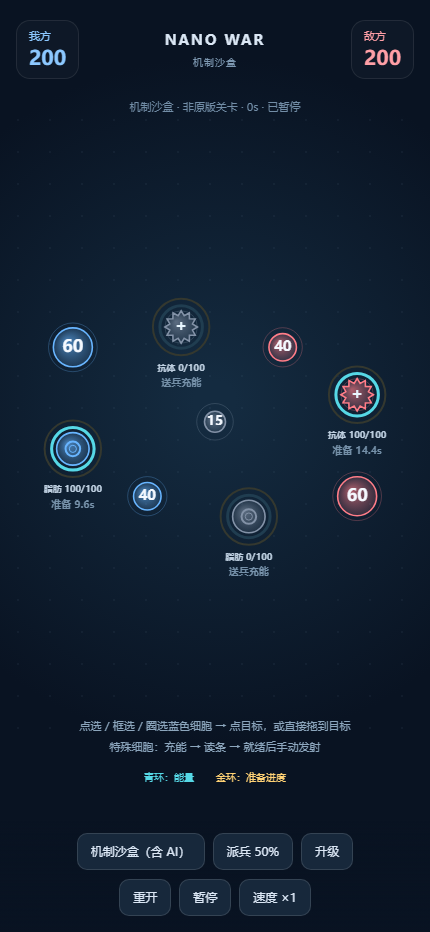
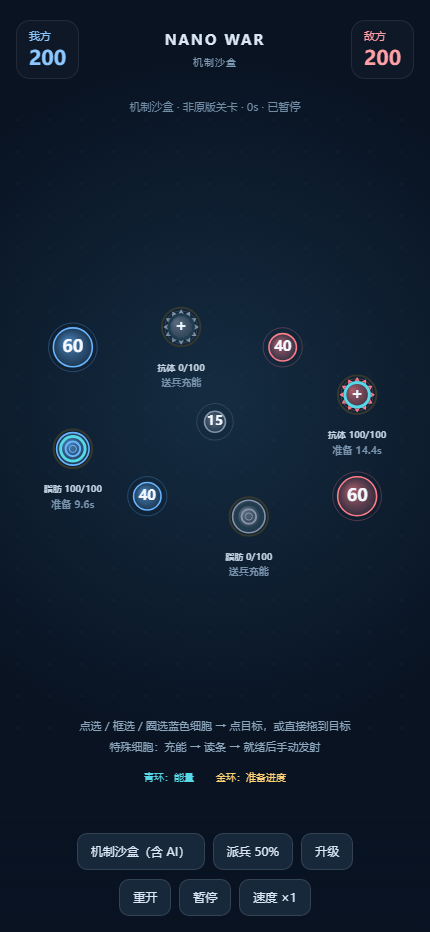
Fix campaign lifecycle stalls and add deterministic simulation sweep

diff --git a/src/core.js b/src/core.js
@@ -18,11 +18,11 @@ function createState(map,options={}){
  c.ray=c.type==='n'?Math.floor(44*c.size/100*.83):24;
  c.interval=Math.trunc(1000+2200*(100-c.size)/100)/1000;c.delay=c.interval;
  if(s.difficulty&&c.own>1&&c.type==='n')c.u=Math.trunc(c.u*(s.difficulty===1?1.5:2));
- sync(c);return c;});return s;
+ setPower(c,c.u);return c;});return s;
 }
 function sync(c){c.ray2=c.type==='n'?Math.trunc(c.ray*clamp(.5+c.u/200,.5,1.1)*.95):15;if(c.type!=='n'){if(c.u<c.powerMax){c.timer=0;c.loading=false;c.ready=false;}else if(!c.ready&&!c.loading){c.loading=true;c.timer=0;}}}
-function setPower(c,p){c.u=Math.max(0,Math.trunc(p));sync(c);}
-function switchSide(c,side,s){if(c.own!==side){if(c.type==='n'&&c.own===0)c.u+=Math.trunc(25*c.size/100);if(c.type!=='n'){c.ready=false;sync(c);}if(side!==c.fat)c.fat=-1;c.own=side;c.upgrades=Object.assign({speed:0,time:0,shield:0,special:0},s&&s.upgrades[side]);c.powerMax=c.type==='n'?100:100*upgrade(c,'special');}sync(c);}
+function setPower(c,p){c.u=Number.isFinite(p)?Math.max(0,Math.trunc(p)):0;sync(c);}
+function switchSide(c,side,s){if(c.own!==side){if(c.type==='n'&&c.own===0)c.u+=Math.trunc(25*c.size/100);if(c.type!=='n'){c.ready=false;c.loading=false;c.timer=0;}if(side!==c.fat)c.fat=-1;c.own=side;c.upgrades=Object.assign({speed:0,time:0,shield:0,special:0},s&&s.upgrades[side]);c.powerMax=c.type==='n'?100:100*upgrade(c,'special');}sync(c);}
 function selectable(c,side){return !!c&&c.own===side&&(c.type==='n'||c.ready);}
 function canSend(c,side){return selectable(c,side)&&(c.type!=='n'||((c.fat===-1||c.fat===side)&&c.u>=2));}
 // Cell.as:373-410. Zero becomes neutral first; next hostile mini captures with one energy.
@@ -36,7 +36,7 @@ function unitPower(u,p){u.power=p;if(u.kind==='w'){u.scale=clamp(.25+.75*p/100,.
 // FatUnit.as:13-19; AntibodyUnit.as:13-18; SpecialUnit.as:13: ray18.
 function launch(s,c,target,kind,power=0){const u={id:s.nextUnit++,kind,side:c.own,source:c.id,target:target.id,x:c.x,y:c.y,power:0,wanted:power,moving:kind!=='w',v:0,acc:true,angle:Math.atan2(target.y-c.y,target.x-c.x),bx:0,by:0,age:0,ray:18,vmax:kind==='f'?3:3.3,vmin:kind==='w'?.6:.8,acceleration:.5,slow:kind==='a'?.96:.94};
  if(kind==='w'){unitPower(u,0);u.x+=Math.cos(u.angle)*(c.ray2*.8-u.ray);u.y+=Math.sin(u.angle)*(c.ray2*.8-u.ray);}s.units.push(u);return u;}
-function sendFleet(s,ids,targetId,side,percent=50){const target=s.cells[targetId];if(!target||s.over||side<1||side>4)return 0;let count=0;for(const id of new Set(ids)){const c=s.cells[id];if(!canSend(c,side)||c===target)continue;if(c.type!=='n'){if(c.type==='f'&&target.type!=='n')continue;launch(s,c,target,c.type);c.ready=false;setPower(c,c.u-c.powerMax);count++;}else{let n=Math.trunc(c.u*clamp(percent,0,100)/100);count+=n;while(n>0){launch(s,c,target,'w',Math.min(100,n));n-=100;}}}return count;}
+function sendFleet(s,ids,targetId,side,percent=50){const target=s.cells[targetId];if(!target||s.over||!Number.isInteger(side)||side<1||side>4||!Number.isFinite(percent))return 0;let count=0;for(const id of new Set(ids)){const c=s.cells[id];if(!canSend(c,side)||c===target)continue;if(c.type!=='n'){if(c.type==='f'&&target.type!=='n')continue;launch(s,c,target,c.type);c.ready=false;setPower(c,c.u-c.powerMax);count++;}else{let n=Math.trunc(c.u*clamp(percent,0,100)/100);count+=n;while(n>0){launch(s,c,target,'w',Math.min(100,n));n-=100;}}}return count;}
 function growthInterval(c){return c.interval;} // WhiteBloodCell.as:57: fixed SIZE interpolation.
 function produce(c){if(c.own===0&&c.fat===-1)return;if(c.fat===-1||c.fat===c.own){if(c.u>100)c.u--;else if(c.u<100&&c.own!==0)c.u++;}else c.u--;c.u=clamp(Math.trunc(c.u),0,1000);sync(c);c.delay=Math.trunc(c.interval*1000/(c.antibody?1.5:1))/1000*(1-upgrade(c,'time'));}
 // Unit.as:18-20,326-333: bounce3.5, attenuation0.85; collision coefficient1.5.
@@ -48,7 +48,7 @@ function burst(s,u){for(let i=0;i<u.power;i++){const t=s.cells[u.target];let vx=
 // Unit.as:22,173-199,224-288,379-449: expiry60s and pulse movement, two acceleration additions.
 function tickUnit(s,u){const c=s.cells[u.source],t=s.cells[u.target];u.age+=FRAME;if(u.age>=60)return false;
  // WhiteBloodUnit.as:126-178: transfer ceil-ish integer thirds over frames, never instant debit.
- if(u.kind==='w'&&u.power<u.wanted&&!u.moving){if(c.u===0||u.side!==c.own){u.wanted=u.power;if(!u.power)return false;}let n=Math.max(1,Math.trunc((u.wanted-u.power)/3));n=Math.min(n,c.u);unitPower(u,u.power+n);setPower(c,c.u-n);if(u.power>=u.wanted||c.u===0){u.wanted=u.power;u.moving=true;const v=upgrade(c,'speed');u.vmax*=1+v;u.acceleration*=1+v;u.slow-=u.slow*v/3;}return true;}
+ if(u.kind==='w'&&u.power<u.wanted&&!u.moving){if(u.side===c.own&&c.fat!==-1&&c.fat!==u.side){setPower(c,c.u+u.power);return false;}if(c.u===0||u.side!==c.own){u.wanted=u.power;if(!u.power)return false;u.moving=true;return true;}let n=Math.max(1,Math.trunc((u.wanted-u.power)/3));n=Math.min(n,c.u);unitPower(u,u.power+n);setPower(c,c.u-n);if(u.power>=u.wanted||c.u===0){u.wanted=u.power;u.moving=true;const v=upgrade(c,'speed');u.vmax*=1+v;u.acceleration*=1+v;u.slow-=u.slow*v/3;}return true;}
  u.x+=u.bx;u.y+=u.by;u.bx*=.85;u.by*=.85;
  if(u.moving){u.v=clamp(u.v,0,u.vmax);if(u.acc)u.angle=Math.atan2(t.y-u.y,t.x-u.x);u.x+=Math.cos(u.angle)*u.v;u.y+=Math.sin(u.angle)*u.v;if(u.acc){u.v+=u.acceleration*2;if(u.v>=u.vmax-.1)u.acc=false;}else{u.v*=u.slow;if(u.v<=u.vmin){u.acc=true;u.angle=Math.atan2(t.y-u.y,t.x-u.x);}}}
  for(const other of s.cells){if(other===c)continue;const d=Math.trunc(Math.hypot(u.x-other.x,u.y-other.y));if(other===t){const hit=u.kind==='w'?d<u.ray+other.ray:d<2;if(hit){if(u.kind==='w')burst(s,u);else if(u.kind==='f')arriveFat(other,u.side);else arriveAb(other,u.side,s);return false;}if(u.kind!=='w'&&d<other.ray-u.ray/2)u.angle=Math.atan2(other.y-u.y,other.x-u.x);}else if(d<u.ray+other.ray){separate(u,other);if(other.fat!==-1&&other.fat!==u.side)bounce(u,other);}}
@@ -58,7 +58,7 @@ function collide(a,b){separate(a,b);separate(b,a);if(a.kind==='w'&&b.kind==='a'&
 function tickMini(s,m){const c=s.cells[m.target];if(m.mode==='home'){const a=Math.atan2(c.y-m.y,c.x-m.x);m.v=Math.min(10,m.v+1);m.vx=Math.cos(a)*m.v;m.vy=Math.sin(a)*m.v;const d=Math.trunc(Math.hypot(c.x-m.x,c.y-m.y));if(d<c.ray*1.2&&!m.hit){m.hit=true;if(shieldMini(c,m.side)){m.mode='bounce';const a=Math.atan2(c.y-m.y,c.x-m.x);m.x=c.x-Math.cos(a)*c.ray*1.2;m.y=c.y-Math.sin(a)*c.ray*1.2;m.vx=-Math.cos(a)*(2+random(s)*3);m.vy=-Math.sin(a)*(2+random(s)*3);m.side=0;}}if(m.mode!=='bounce'&&d<c.ray2){arriveWhite(c,m.side,s,false);return false;}}else if(m.mode==='bounce'){if(m.life--===0)return false;m.vx*=.83;m.vy*=.83;}else{m.vx*=.83;m.vy*=.83;if(m.vx<.5&&m.vy<.5)m.mode='home';}m.x+=m.vx;m.y+=m.vy;return true;}
 function powerBySide(s){const p=[0,0,0,0,0];for(const c of s.cells)p[c.own]+=c.u;for(const u of s.units)p[u.side]+=u.power;return p;}
 // Game.as:1986-2044: ALL cell types count, and wait for minis; unlike previous Lite.
-function winner(s){const p=powerBySide(s),n=[0,0,0,0,0];for(const c of s.cells)n[c.own]++;if(!p[1]&&!n[1]&&!s.minis.some(m=>m.side===1&&m.mode!=='bounce'))return 2;const alive=[1,2,3,4].filter(side=>p[side]>0||n[side]>0);return alive.length===1&&alive[0]===1&&p[1]>0&&s.minis.length===0?1:0;}
+function winner(s){const alive=new Set(s.cells.filter(c=>c.own).map(c=>c.own));for(const u of s.units)if(u.side)alive.add(u.side);for(const m of s.minis)if(m.side&&m.mode!=='bounce')alive.add(m.side);if(!alive.has(1))return 2;return alive.size===1&&s.units.length===0&&s.minis.length===0?1:0;}
 function tick(s){s.time+=FRAME;for(const c of s.cells){sync(c);if(c.type==='n'){c.growth+=FRAME;if(c.growth+EPS>=c.delay){c.growth-=c.delay;produce(c);}}else if(c.loading){c.timer+=FRAME;if(c.timer+EPS>=LOAD[c.type]){c.timer=LOAD[c.type];c.loading=false;c.ready=true;}}}s.units=s.units.filter(u=>tickUnit(s,u));for(let i=0;i<s.units.length;i++)for(let j=i+1;j<s.units.length;j++){const a=s.units[i],b=s.units[j];if(Math.trunc(Math.hypot(a.x-b.x,a.y-b.y))<a.ray+b.ray)collide(a,b);}s.minis=s.minis.filter(m=>tickMini(s,m));s.over=winner(s);}
 function clampFrame(dt){return Number.isFinite(dt)?clamp(dt,0,.05):0;}
 function step(s,seconds){if(s.over)return;s.accumulator+=clampFrame(seconds);while(s.accumulator+EPS>=FRAME&&!s.over){s.accumulator-=FRAME;tick(s);}}

diff --git a/src/ai.js b/src/ai.js
@@ -4,10 +4,20 @@
 const dist=(a,b)=>Math.trunc(Math.hypot(a.x-b.x,a.y-b.y)),asc=a=>a.slice().sort((a,b)=>a.u-b.u),desc=a=>asc(a).reverse();
 // FrameTimer.as:11,31-34 quantizes milliseconds at the original25fps.
 function create(options={}){const ms=options.timeDecision||5000,interval=Math.trunc(ms/1000*25)/Core.FPS;return {timer:1+interval,interval,timeDecision:ms,mode:options.mode||'normal',side:options.side||2,turn:0};}
+// Select an existing opponent, never the bot itself or an eliminated default side.
+function weakestSide(s,side){const powers=Core.powerBySide(s),foes=[1,2,3,4].filter(n=>n!==side&&s.cells.some(c=>c.own===n));return foes.sort((a,b)=>powers[a]-powers[b])[0];}
+function fireSpecials(s,side){let sent=0;for(const c of s.cells.filter(c=>c.own===side&&c.ready&&c.type!=='n')){
+ const targets=s.cells.filter(t=>t!==c&&(c.type!=='f'||t.type==='n'));
+ let useful;if(c.type==='f')useful=targets.filter(t=>t.own!==side&&t.own!==0&&(t.antibody||t.fat!==side));
+ else useful=targets.filter(t=>t.own!==side&&(t.fat===-1||t.fat===side));
+ if(!useful.length)useful=targets.filter(t=>t.own===side&&(c.type==='f'?t.fat!==side:!t.antibody)&&(c.type==='f'||t.fat===-1||t.fat===side));
+ const target=useful.sort((a,b)=>Number(b.antibody)-Number(a.antibody)||b.u-a.u||dist(c,a)-dist(c,b))[0];if(target)sent+=Core.sendFleet(s,[c.id],target.id,side);
+ }return sent;}
 function decision(s,side=2){
+ if(fireSpecials(s,side))return;
  const white=s.cells.filter(c=>c.type==='n'),own=white.filter(c=>c.own===side),foes=white /* AI.as:258-272: cellsSide(side,false) also includes friendly cells */,fat=s.cells.filter(c=>c.type==='f'),ab=s.cells.filter(c=>c.type==='a');
  const strongest=desc(own),a=strongest[0],b=strongest[1];if(!a)return;
- const p=Core.powerBySide(s);let weakSide=1,least=p[1];for(let i=1;i<p.length;i++)if(p[i]<least&&p[i]>0&&i!==side){least=p[i];weakSide=i;}
+ const p=Core.powerBySide(s),weakSide=weakestSide(s,side);
  const enemies=asc(white.filter(c=>c.own===weakSide)),weak=enemies[0],enemy=enemies[enemies.length-1];
  const nearest=(from,list)=>list.slice().sort((x,y)=>dist(from,x)-dist(from,y))[0];
  const neutral=white.filter(c=>c.own===0).sort((x,y)=>dist(a,x)-dist(a,y)).slice(0,3),weakNeutral=asc(neutral)[0],big=own.slice().sort((x,y)=>y.size-x.size)[0];
@@ -35,12 +45,13 @@ function decision(s,side=2){
 }
 // Easy.as:15-77, Noob.as:17-40, TutorialFat.as:15-26.
 function simpleDecision(s,brain,side){
+ if(brain.mode!=='base'&&fireSpecials(s,side))return;
  const white=s.cells.filter(c=>c.type==='n'),own=white.filter(c=>c.own===side),a=desc(own)[0],b=desc(own)[1];if(!a)return;
  const attack=(from,to,pct=50)=>from&&to?Core.sendFleet(s,[from.id],to.id,side,pct):0,total=Core.powerBySide(s)[side],near=(from,list)=>list.slice().sort((x,y)=>dist(from,x)-dist(from,y))[0];
- if(brain.mode==='noob'){if(total>15){const targets=[...white.filter(c=>c.own===0),...white.filter(c=>c.own===1),...white.filter(c=>c.own===2)].filter(c=>dist(a,c)<250);attack(a,targets[Math.floor(Core.random(s)*targets.length)]);}return;}
+ if(brain.mode==='noob'){if(total>15){const foes=s.cells.filter(c=>c.own!==side&&(c.type==='n'||c.own>0)),from=desc(own).find(c=>Core.canSend(c,side)&&foes.some(t=>dist(c,t)<250));if(from){const targets=foes.filter(c=>dist(from,c)<250);attack(from,targets[Math.floor(Core.random(s)*targets.length)]);}}return;}
  if(brain.mode==='tutorialfat'){const target=white[0];Core.random(s);if(target&&total>=target.u&&total>50)attack(own[0],target);return;}
  if(brain.mode==='base')return;
- const powers=Core.powerBySide(s);let sideWeak=1,least=powers[1];for(let i=1;i<powers.length;i++)if(powers[i]<least&&powers[i]>0&&i!==side){least=powers[i];sideWeak=i;}
+ const sideWeak=weakestSide(s,side);
  const enemy=asc(white.filter(c=>c.own===sideWeak)),weak=enemy[0],strong=enemy[enemy.length-1],fat=s.cells.filter(c=>c.type==='f'),myFat=desc(fat.filter(c=>c.own===side))[0],nearFat=near(a,asc(fat)),neutral=white.filter(c=>c.own===0).sort((x,y)=>dist(a,x)-dist(a,y)).slice(0,3);
  if(!weak){attack(a,nearFat);return;}
  if(weak.u<25&&weak.fat===side)attack(a,weak);
@@ -51,6 +62,16 @@ function simpleDecision(s,brain,side){
  else if(neutral.length&&dist(a,neutral[0])<250){for(const c of neutral)if(a.u/2.1>c.u&&dist(a,c)<250){attack(a,c);break;}}
  else if(total*4>weak.u&&dist(a,weak)<350){attack(a,weak);attack(b,weak);}
 }
-function think(s,brain,dt,side=brain.side){if(s.over||brain.stopped)return;brain.timer-=dt;if(brain.timer>1e-9)return;brain.turn++;if(Core.powerBySide(s)[side]===0){brain.stopped=true;return;}if(brain.mode==='normal'){brain.interval=Math.trunc(brain.timeDecision/1000*25)/Core.FPS;decision(s,side);}else{brain.interval=Math.trunc((brain.timeDecision+Core.random(s)*1000)/1000*25)/Core.FPS;simpleDecision(s,brain,side);}brain.timer+=brain.interval;}
+// Original priorities can all miss (e.g. level4: two allies, foe >250px away).
+// After two idle decisions, use another legal source/target rather than sleep forever.
+function idleFallback(s,brain,side,before){
+ if(brain.mode!=='normal'&&brain.mode!=='easy')return;
+ brain.idle=s.nextUnit===before?(brain.idle||0)+1:0;if(brain.idle<2)return;
+ const source=desc(s.cells.filter(c=>c.type==='n'&&c.u>=40&&Core.canSend(c,side)))[0];if(!source)return;
+ const targets=s.cells.filter(c=>c.own!==side&&c!==source&&(c.own===0||!c.antibody));
+ const target=targets.sort((a,b)=>Number(a.own!==0)-Number(b.own!==0)||dist(source,a)-dist(source,b))[0];
+ if(target&&Core.sendFleet(s,[source.id],target.id,side,50))brain.idle=0;
+}
+function think(s,brain,dt,side=brain.side){if(s.over||brain.stopped)return;brain.timer-=dt;if(brain.timer>1e-9)return;brain.turn++;if(!s.cells.some(c=>c.own===side)&&!s.units.some(u=>u.side===side)&&!s.minis.some(m=>m.side===side&&m.mode!=='bounce')){brain.timer+=brain.interval;return;}const before=s.nextUnit;if(brain.mode==='normal'){brain.interval=Math.trunc(brain.timeDecision/1000*25)/Core.FPS;decision(s,side);}else{brain.interval=Math.trunc((brain.timeDecision+Core.random(s)*1000)/1000*25)/Core.FPS;simpleDecision(s,brain,side);}idleFallback(s,brain,side,before);brain.timer+=brain.interval;}
 return {create,think,decision,simpleDecision};
 });

diff --git a/src/render.js b/src/render.js
@@ -3,19 +3,20 @@
 window.NanoRender={create(canvas){
  const ctx=canvas.getContext('2d'),colors=['#8392a7','#68b5ff','#ff7d88','#87cd77','#edca63'];let W,H,camera={x:0,y:0,s:1,left:0,top:0};
  function resize(){W=innerWidth;H=innerHeight;const d=Math.min(devicePixelRatio||1,2);canvas.width=Math.round(W*d);canvas.height=Math.round(H*d);ctx.setTransform(d,0,0,d,0,0);}
- function fit(state){const cells=state.cells;let minx=Math.min(...cells.map(c=>c.x-c.ray))-48,maxx=Math.max(...cells.map(c=>c.x+c.ray))+48,miny=Math.min(...cells.map(c=>c.y-c.ray))-65,maxy=Math.max(...cells.map(c=>c.y+c.ray))+76;const w=maxx-minx,h=maxy-miny,top=124,bottom=H-205;const scale=Math.min((W-32)/w,(bottom-top)/h,1.9);camera={x:minx,y:miny,s:scale,left:(W-w*scale)/2,top:top+(bottom-top-h*scale)/2};}
+ function fit(state){const cells=state.cells;let minx=Math.min(...cells.map(c=>c.x-c.ray))-48,maxx=Math.max(...cells.map(c=>c.x+c.ray))+48,miny=Math.min(...cells.map(c=>c.y-c.ray))-65,maxy=Math.max(...cells.map(c=>c.y+c.ray))+76;const w=maxx-minx,h=maxy-miny,top=Math.min(124,H*.2),bottom=H-Math.min(205,H*.27);const scale=Math.min((W-32)/w,(bottom-top)/h,1.9);camera={x:minx,y:miny,s:scale,left:(W-w*scale)/2,top:top+(bottom-top-h*scale)/2};}
  function point(c){return {x:camera.left+(c.x-camera.x)*camera.s,y:camera.top+(c.y-camera.y)*camera.s};}
  function radius(c){return c.ray*camera.s;}
- function ring(x,y,r,f,color,width=2){ctx.beginPath();ctx.arc(x,y,r,-Math.PI/2,-Math.PI/2+Math.PI*2*Math.max(.00001,Math.min(1,f)));ctx.strokeStyle=color;ctx.lineWidth=width;ctx.stroke();}
+ function ring(x,y,r,f,color,width=2){ctx.beginPath();ctx.arc(x,y,Math.max(.5,r),-Math.PI/2,-Math.PI/2+Math.PI*2*Math.max(.00001,Math.min(1,f)));ctx.strokeStyle=color;ctx.lineWidth=width;ctx.stroke();}
  function label(text,x,y,color='#dfebfa',size=12){ctx.fillStyle=color;ctx.font='600 '+size+'px system-ui,sans-serif';ctx.textAlign='center';ctx.textBaseline='middle';ctx.fillText(text,x,y);}
  function shape(x,y,r,kind){ctx.beginPath();if(kind==='a'){for(let i=0;i<24;i++){const a=i*Math.PI/12,rr=r*(i%2?.72:1);if(i)ctx.lineTo(x+Math.cos(a)*rr,y+Math.sin(a)*rr);else ctx.moveTo(x+rr,y);}ctx.closePath();}else ctx.arc(x,y,r,0,Math.PI*2);}
  function draw(state,ui){fit(state);ctx.fillStyle='#091322';ctx.fillRect(0,0,W,H);const bg=ctx.createRadialGradient(W*.5,H*.43,20,W*.5,H*.43,W*.8);bg.addColorStop(0,'#142b40');bg.addColorStop(1,'#091322');ctx.fillStyle=bg;ctx.fillRect(0,0,W,H);ctx.fillStyle='#7898b719';for(let x=18;x<W;x+=32)for(let y=120;y<H-180;y+=32){ctx.beginPath();ctx.arc(x,y,1,0,7);ctx.fill();}
  const dense=state.cells.length>10||state.level>=9;
  for(const c of state.cells){const {x,y}=point(c),r=radius(c),col=colors[c.own],inner=r*(c.type==='n'?Math.max(.5,Math.min(1.1,.5+c.u/200)):1);
  ring(x,y,r,1,col+'45',1);const g=ctx.createRadialGradient(x-inner*.3,y-inner*.3,1,x,y,inner);g.addColorStop(0,col+'a0');g.addColorStop(1,col+'27');shape(x,y,inner,c.type);ctx.fillStyle=g;ctx.fill();ctx.strokeStyle=col;ctx.lineWidth=1.6;ctx.stroke();
- if(ui.selected.has(c.id))ring(x,y,r+7,1,'#ffd275',2.5);
+ // Selection lives outside every status ring, including charged specials.
+ if(ui.selected.has(c.id))ring(x,y,r+23,1,'#ffd275',3);
  if(c.type==='n'){label(c.u+(c.antibody?'*':''),x,y,'#f5f9ff',Math.max(13,Math.min(23,r*.7)));if(c.own)ring(x,y,r+3,c.growth/c.delay,col+'80',1.5);}
- else{if(dense){label(c.u,x,y,'#e9f7ff',Math.max(9,Math.min(13,r*.6)));ring(x,y,r-3,1,'#203d50',2);ring(x,y,r-3,c.u/c.powerMax,'#56d8e6',2);ring(x,y,r+2,1,'#34382f',2);if(c.timer)ring(x,y,r+2,c.timer/NanoCore.LOAD[c.type],'#ffd275',2);}else{if(c.type==='f'){ring(x,y,r*.45,1,col,2);ring(x,y,r*.22,1,col,1);}else{label('+',x,y,'#e9f7ff',Math.max(15,r));}ring(x,y,r+5,1,'#203d50',3);ring(x,y,r+5,c.u/c.powerMax,'#56d8e6',3);ring(x,y,r+12,1,'#34382f',2);if(c.timer)ring(x,y,r+12,c.timer/NanoCore.LOAD[c.type],'#ffd275',2);label((c.type==='f'?'脂肪':'抗体')+' '+c.u+'/'+c.powerMax,x,y+r+25,'#bdcedf',Math.max(9,Math.min(12,11*camera.s)));label(c.ready?'就绪 · 点选发射':c.loading?'准备 '+(NanoCore.LOAD[c.type]-c.timer).toFixed(1)+'s':'送兵充能',x,y+r+40,c.ready?'#ffd275':'#7590a8',10);}}
+ else{if(dense){label(c.u,x,y,'#e9f7ff',Math.max(9,Math.min(13,r*.6)));ring(x,y,r-3,1,'#203d50',2);ring(x,y,r-3,c.u/c.powerMax,'#56d8e6',2);ring(x,y,r+2,1,'#34382f',2);if(c.timer)ring(x,y,r+2,c.timer/NanoCore.LOAD[c.type],'#ffd275',2);}else{if(c.type==='f'){ring(x,y,r*.45,1,col,2);ring(x,y,r*.22,1,col,1);}else{label('+',x,y,'#e9f7ff',Math.max(15,r));}ring(x,y,r-4,1,'#203d50',3);ring(x,y,r-4,c.u/c.powerMax,'#56d8e6',3);ring(x,y,r+3,1,'#34382f',2);if(c.timer)ring(x,y,r+3,c.timer/NanoCore.LOAD[c.type],'#ffd275',2);label((c.type==='f'?'脂肪':'抗体')+' '+c.u+'/'+c.powerMax,x,y+r+(ui.selected.has(c.id)?34:25),'#bdcedf',Math.max(9,Math.min(12,11*camera.s)));label(c.ready?'就绪 · 点选发射':c.loading?'准备 '+(NanoCore.LOAD[c.type]-c.timer).toFixed(1)+'s':'送兵充能',x,y+r+(ui.selected.has(c.id)?49:40),c.ready?'#ffd275':'#7590a8',10);}}
  if(c.fat!==-1){ring(x,y,r+(dense?4:11),1,colors[c.fat],dense?2:4);if(c.fat!==c.own)label('封锁',x,y-r-20,'#ffd275',10);}if(c.antibody){ctx.setLineDash([3,4]);ring(x,y,r+(dense?7:17),1,'#75e7df',2);ctx.setLineDash([]);}}
  for(const u of state.units){const p=point(u),r=Math.max(3,u.ray*camera.s);shape(p.x,p.y,r,u.kind);ctx.fillStyle=colors[u.side]+'c0';ctx.fill();ctx.strokeStyle=colors[u.side];ctx.lineWidth=1.2;ctx.stroke();if(u.kind==='w'&&u.power)label(u.power,p.x,p.y-r-8,colors[u.side],10);}
  for(const u of state.minis){const p=point(u);ctx.beginPath();ctx.arc(p.x,p.y,Math.max(1.3,1.8*camera.s),0,7);ctx.fillStyle=colors[u.side]+(u.mode==='bounce'?'55':'dd');ctx.fill();}

diff --git a/src/input.js b/src/input.js
@@ -3,7 +3,8 @@
 window.NanoInput={create(canvas,renderer,getState){
  const ui={selected:new Set(),drag:null,percent:50};
  const point=e=>{const r=canvas.getBoundingClientRect();return {x:e.clientX-r.left,y:e.clientY-r.top};};
- const hit=p=>getState().cells.slice().reverse().find(c=>{const q=renderer.point(c);return Math.hypot(p.x-q.x,p.y-q.y)<=renderer.radius(c)+7;});
+ // Prefer an actual cell body over another cell's enlarged touch halo.
+ const hit=p=>getState().cells.map(c=>{const q=renderer.point(c),r=Math.max(1,renderer.radius(c)),d=Math.hypot(p.x-q.x,p.y-q.y);return {c,d,r,body:d<=r};}).filter(h=>h.d<=h.r+7).sort((a,b)=>Number(b.body)-Number(a.body)||a.d/a.r-b.d/b.r||a.c.id-b.c.id)[0]?.c;
  function inside(p,pts){let yes=false;for(let i=0,j=pts.length-1;i<pts.length;j=i++){const a=pts[i],b=pts[j];if((a.y>p.y)!==(b.y>p.y)&&p.x<(b.x-a.x)*(p.y-a.y)/(b.y-a.y)+a.x)yes=!yes;}return yes;}
  canvas.addEventListener('pointerdown',e=>{
   if(getState().over||ui.drag||!e.isPrimary||e.button!==0)return;e.preventDefault();canvas.setPointerCapture(e.pointerId);
@@ -12,7 +13,7 @@ window.NanoInput={create(canvas,renderer,getState){
  canvas.addEventListener('pointermove',e=>{const d=ui.drag;if(!d||d.pointerId!==e.pointerId)return;e.preventDefault();const p=point(e);d.end=p;d.moved=Math.max(d.moved,Math.hypot(p.x-d.start.x,p.y-d.start.y));const last=d.path[d.path.length-1];if(Math.hypot(p.x-last.x,p.y-last.y)>5)d.path.push(p);});
  canvas.addEventListener('pointerup',e=>{
   const d=ui.drag;if(!d||d.pointerId!==e.pointerId)return;e.preventDefault();ui.drag=null;
-  const state=getState(),p=point(e);d.end=p;
+  const state=getState(),p=point(e);d.end=p;d.moved=Math.max(d.moved,Math.hypot(p.x-d.start.x,p.y-d.start.y));
   if(d.moved<10){
    const c=hit(p);if(!c){ui.selected.clear();return;}
    // Unready friendly batteries accept charge; ready batteries can be selected as sources.

diff --git a/BUGSWEEP.md b/BUGSWEEP.md
@@ -1,0 +1,45 @@
+# 稳定性扫雷 · 2026-10-17
+
+## 复跑
+
+- `node tools/test-core.cjs`：82/82，原有60项 + 新增22项（21项在修复前源码上失败，另1项验证特殊细胞仍须手动发射）。
+- `node tools/test-browser.cjs`：真实Chrome，430×932 / 1280×800，全部25关+沙盒、触摸圈选、封锁、特殊手动发射、第一关胜利；18张截图。
+- `node tools/sim-sweep.cjs`：25关 × 3难度 × mixed/easy/normal/noob = 300局，每局上限300秒游戏时间，固定25fps；可追加输出JSON路径。
+
+mixed按现有阵营依次配置Normal/Easy/Noob；不更改地图阵营、数值或规则。所有AI决策间隔统一为3000ms以增加压力，保留Easy/Noob的随机抖动。每局seed由关卡、难度、配对确定，JSON保留首个异常的时间、细胞ID、末态和特殊发射次数。三/四方对战会在玩家失败后继续，直到真正只剩一个阵营；不把UI的“玩家失败=2”误当成阵营2获胜。
+
+## 汇总
+
+| 指标 | 修复前 | 修复后 |
+|---|---:|---:|
+| 无引擎异常 | 230 | 300 |
+| 有引擎异常 | 70 | 0 |
+| 特殊细胞就绪后长期不发射 | 70 | 0 |
+| NaN/Infinity / 负能量 / 硬卡死 | 0 / 0 / 0 | 0 / 0 / 0 |
+| 300秒内真正决出胜者 | 120 | 165 |
+| 到300秒尚未分胜负 | 180 | 135 |
+| 其中末45秒无新命令 | 28 | 3 |
+
+“无异常”**不等于**“300秒内全部打完”。修复后135局超时里，132局末45秒仍在交战；另外3局是第4关三个难度的Noob镜像，敌我距离超过其原有250px攻击范围。为保留Noob规则没有扩大其射程，不能宣称这3局能够自动收官。主动对称交战也不靠强制判胜结束。
+
+硬卡死判据：无大单位/mini在途，所有存活方都无法合法派兵，且没有可恢复的正常产能/满电充能，持续10秒。特殊停发判据：有可用目标、同一阵营连续就绪超过60秒。超时另列，不混入这些引擎异常计数。异常以“涉及的局数”计数。
+
+完整报告保留在本机忽略的tmp/sim-baseline-full.json与tmp/sim-final.json；不提交大体积临时战局。修复前通过git show 97d4603a31dffccc6e11ece953e331dcffb14bb1的原始模块在内存加载，未回滚工作区。
+
+## 修复清单（症状 → 根因 → 修法 → 回归测试）
+
+1. **AI清零后永久躺平**：把零兵力当成灭族并永久stopped → 按细胞/在途单位/mini判断是否仍存活，暂时没兵不永久停机。测试：`zero energy owned cell does not permanently stop AI`。
+2. **镜像/三方AI选自己或已灭绝阵营**：默认weakSide=1、Noob写死阵营1/2 → 只选现存敌方，排除己方，包含3/4方。测试：`Normal and Easy side1 mirror AI never attacks itself`、`Noob targets side3 and never chooses own cells`、`AI selects existing foe when default side1 was eliminated`。
+3. **特殊电池充满但永不发射，或抗体打到己方已免疫细胞**：无普通细胞直接return、Easy/Noob漏掉抗体、Normal优先级饿死特殊/strongFoe混入友方 → 所有活跃AI模式先通过公共派兵API处理就绪特殊细胞，选择有效攻防目标；玩家仍手动发射。测试：`every active AI mode fires ready specials without normal cells`、`ready AI antibody never wastes shot on its own immune cell`。
+4. **第4关Normal/Easy有兵却永久没命令；最强细胞被封就放弃其他来源**：整条优先级均不匹配或只尝试一个受封来源 → 两次无命令后，从可派兵细胞选合法目标；不绕过脂肪罩。测试：`Normal and Easy escape level4 long range idle loop`、`idle AI can use unblocked second strongest source`。
+5. **Noob残局永远忽略最后一个特殊细胞；最强来源太远就不尝试较弱近源**：只看普通目标和最强来源 → 扫描250px内可用来源，允许攻击敌方特殊细胞。测试：`Noob finishes last enemy special instead of ignoring it forever`、`Noob uses nearby weaker source when strongest is out of range`。
+6. **在途抗体/脂肪仍可翻盘却已判胜负；最后空特殊细胞永不胜利**：特殊单位power=0被胜负统计忽略，胜利额外要求能量>0 → 按全部在途单位及有效mini判断存活，清场后单方拥有空细胞也胜利。测试：`special flight prevents premature player defeat and victory`、`last empty special wins once no hostile force survives`。
+7. **组装中来源被占还偷扣新主兵力**：取消分支未结束，wanted=power后仍最少扣1 → 有载荷则结束组装直接飞行，无载荷取消。测试：`partial assembly stops debiting after source capture`。
+8. **组装途中落下敌方脂肪罩仍继续出兵**：只在下单时检查封锁 → 组装每帧复核，取消并退回尚未离开的载荷。测试：`hostile fat arriving during assembly cancels and refunds packet`。
+9. **特殊细胞易主后沿用旧主读条**：loading/timer没清零 → 易主先重置，再按新升级容量重新充能。测试：`special capture restarts charge timer with new owner capacity`。
+10. **非法能量可传播NaN/Infinity并破坏后续状态**：初始化和setPower缺少有限数验证 → 非有限/负数归零，派兵拒绝非法side/percent。测试：`nonfinite and negative energy cannot poison state`。批量战局未出现天然非有限数；这是可复现的API边界防护，不冒充扫到的随机数值异常。
+11. **手机目标点到自己；缺失pointermove时拖动变点击**：逆数组顺序选扩大触控区、pointerup不更新位移 → 实际细胞体优先，再按归一化距离；结束点也计位移。测试：`touch target body wins over friendly expanded hit halo`、`touch release displacement counts even without pointermove event`。
+12. **特殊就绪选中圈与读条/充能圈混在一起**：状态圈占相近半径且选中圈夹在中间 → 充能内圈、读条外圈、选中最外圈，与脂肪/抗体状态分离。测试：`special selection stays distinct from charge and loading rings`、`selected special ring never strikes through its status labels`；`ready special is selected by touch then fires manually`保留手动流程。
+13. **矮屏/横屏画布报负半径，停止刷新**：上下固定预留高度超过屏幕、内圈半径可为负 → 预留随高度缩小，圈半径下限0.5px。测试：`short landscape viewport retains positive camera and canvas radii`。
+
+另将Chrome测试启动时DevToolsActivePort的Windows短暂文件锁纳入等待重试，避免验证脚本偶发EBUSY。

diff --git a/README.md b/README.md
@@ -9,19 +9,19 @@
 - 点选蓝色细胞，再点目标；也可直接拖到目标。
 - 鼠标框选、触屏闭合圈选；A 全选、空格取消选择。
 - 派兵按钮切换25/50/75/100%。普通兵先在母细胞内组装，再飞行，命中后分裂为逐兵结算的小兵。
-- 特殊细胞送兵充能，脂肪读条8秒/抗体12秒；**就绪后手动选择目标发射**，不再自动寻敌。
-- 原版1–3教程地图可切换；机制沙盒包含脂肪、抗体和 Normal AI，明确非原版关卡。
-- 升级面板可试验原版0–4级数值与开局难度；目前没有点数购买、战役存档。
+- 特殊细胞送兵充能，脂肪读条9.6秒/抗体14.4秒（25fps）；**就绪后手动选择目标发射**，不再自动寻敌。
+- 原版25关可切换；机制沙盒包含脂肪、抗体和 Normal AI，明确非原版关卡。
+- 升级面板按通关获得的点数购买原版0–4级升级；点数和通关记录仅保留在当前页面会话，刷新后重置。
 
 ## 与旧 Lite 的关键差别
 
 产兵间隔按固定地图尺寸(size)插值，不按当前能量；100是产兵软上限，增援可超过100；敌方脂肪罩还会使能量衰减；特殊细胞也计入胜负；抗体感染保留特殊电池能量。
 
-**帧率说明：**本任务指定30fps，所以240/360帧采用8/12秒。检查本机原始SWF发现头部实际为25fps；因此这不是原始文件的严格实时1:1。完整数值、出处、这项覆盖与其余缺口见[PORTING.md](PORTING.md)。
+**帧率说明：**模拟使用原始SWF的25fps，240/360帧对应9.6/14.4秒。完整数值、出处与历史对齐审计见[PORTING.md](PORTING.md)；本轮稳定性修复和批量模拟结果见[BUGSWEEP.md](BUGSWEEP.md)。
 
 ## 分层
 
-- src/core.js：纯逻辑、固定30fps、种子随机、单位和mini碰撞；不接触DOM。
+- src/core.js：纯逻辑、固定25fps、种子随机、单位和mini碰撞；不接触DOM。
 - src/levels.js：地图注册表和初始数据。
 - src/ai.js：原版Normal优先级，只经公共派兵接口下单。
 - src/render.js：只读Canvas；保持世界空间比例，窗口不会改变模拟数值。
@@ -32,7 +32,8 @@
 
     node tools/test-core.cjs
     node tools/test-browser.cjs
+    node tools/sim-sweep.cjs
 
-核心47项零依赖测试；Chrome headless自动检查430×932、1280×800，包含4张地图的布局、充能、封锁、触摸圈选、特殊手动发射，以及第一关可通关。共10张截图写入tools/shots/。Windows Chrome默认路径可用CHROME_PATH环境变量覆盖。
+核心82项零依赖测试；Chrome headless自动检查430×932、1280×800，包含全部25关和沙盒的布局、充能、封锁、触摸圈选、特殊手动发射，以及第一关可通关。共18张截图写入tools/shots/。离线sweep覆盖25关×3难度×4种AI配对，每局最多300秒游戏时间，完整JSON默认写入tmp/sim-sweep.json。Windows Chrome默认路径可用CHROME_PATH环境变量覆盖。
 
 反编译资料仅留本地，.gitignore排除；提交清单不包含它们。详见[完整对齐审计与缺口](PORTING.md)。
